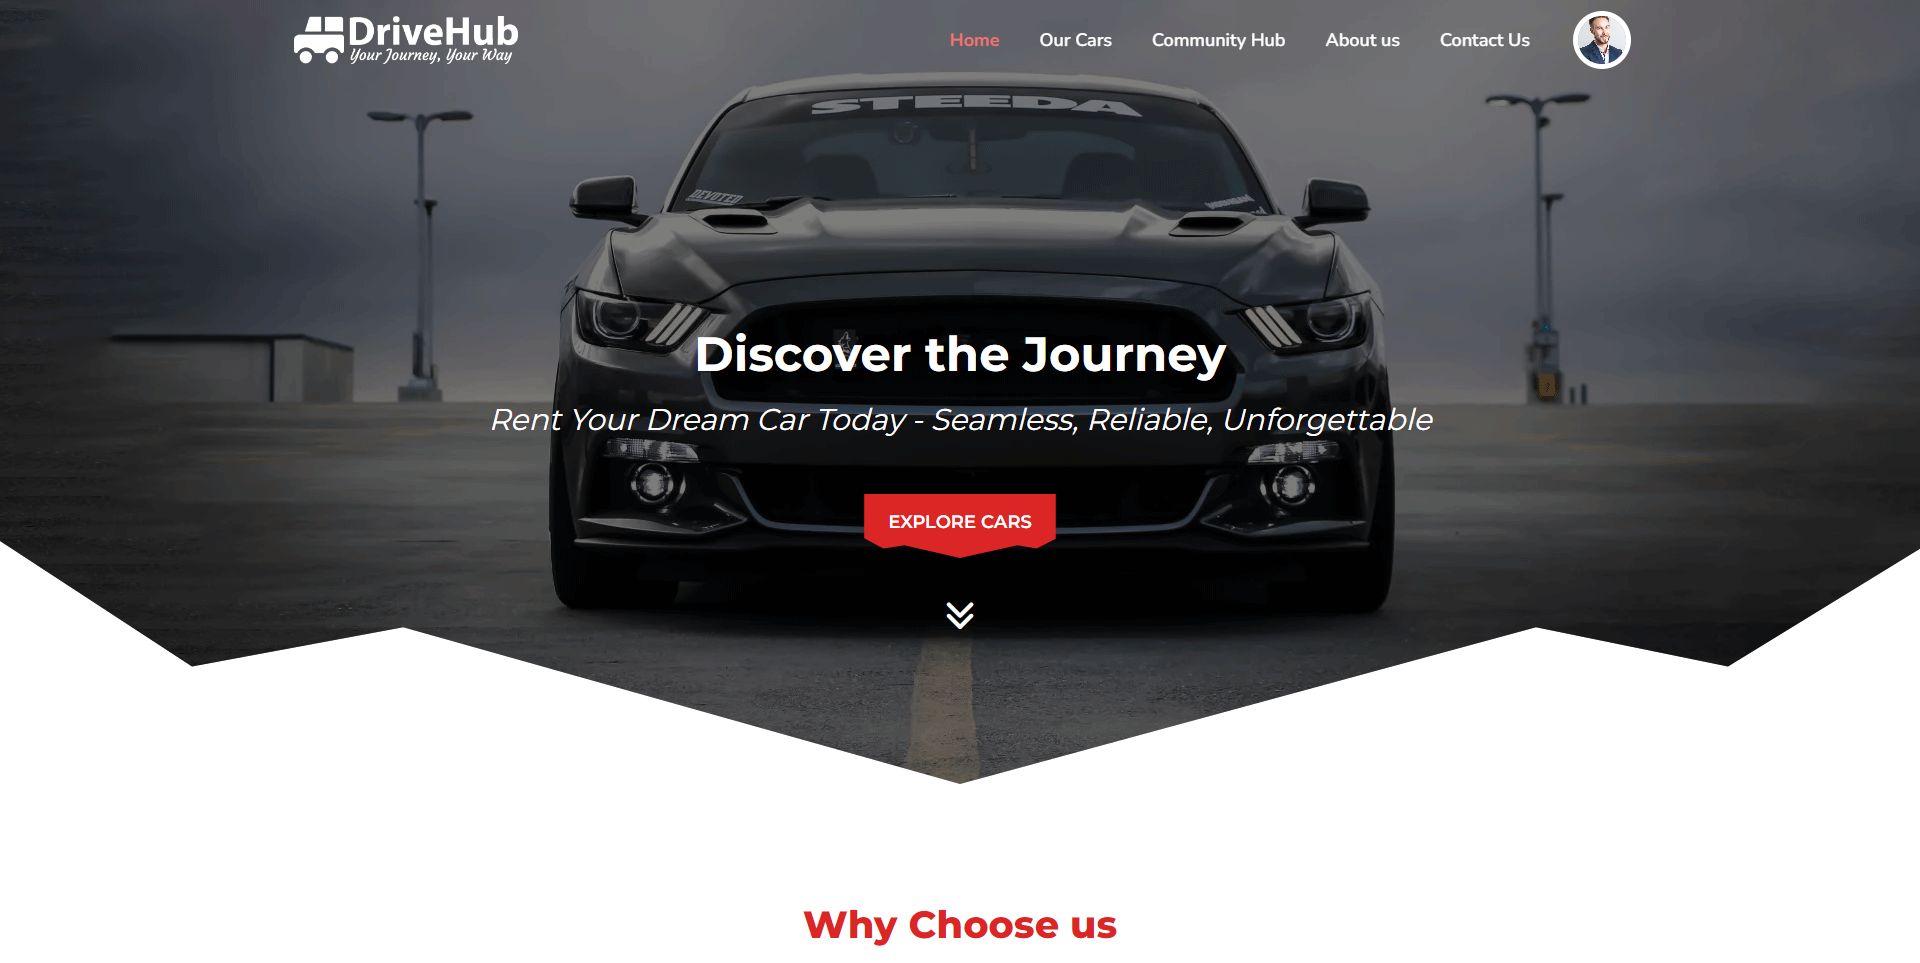
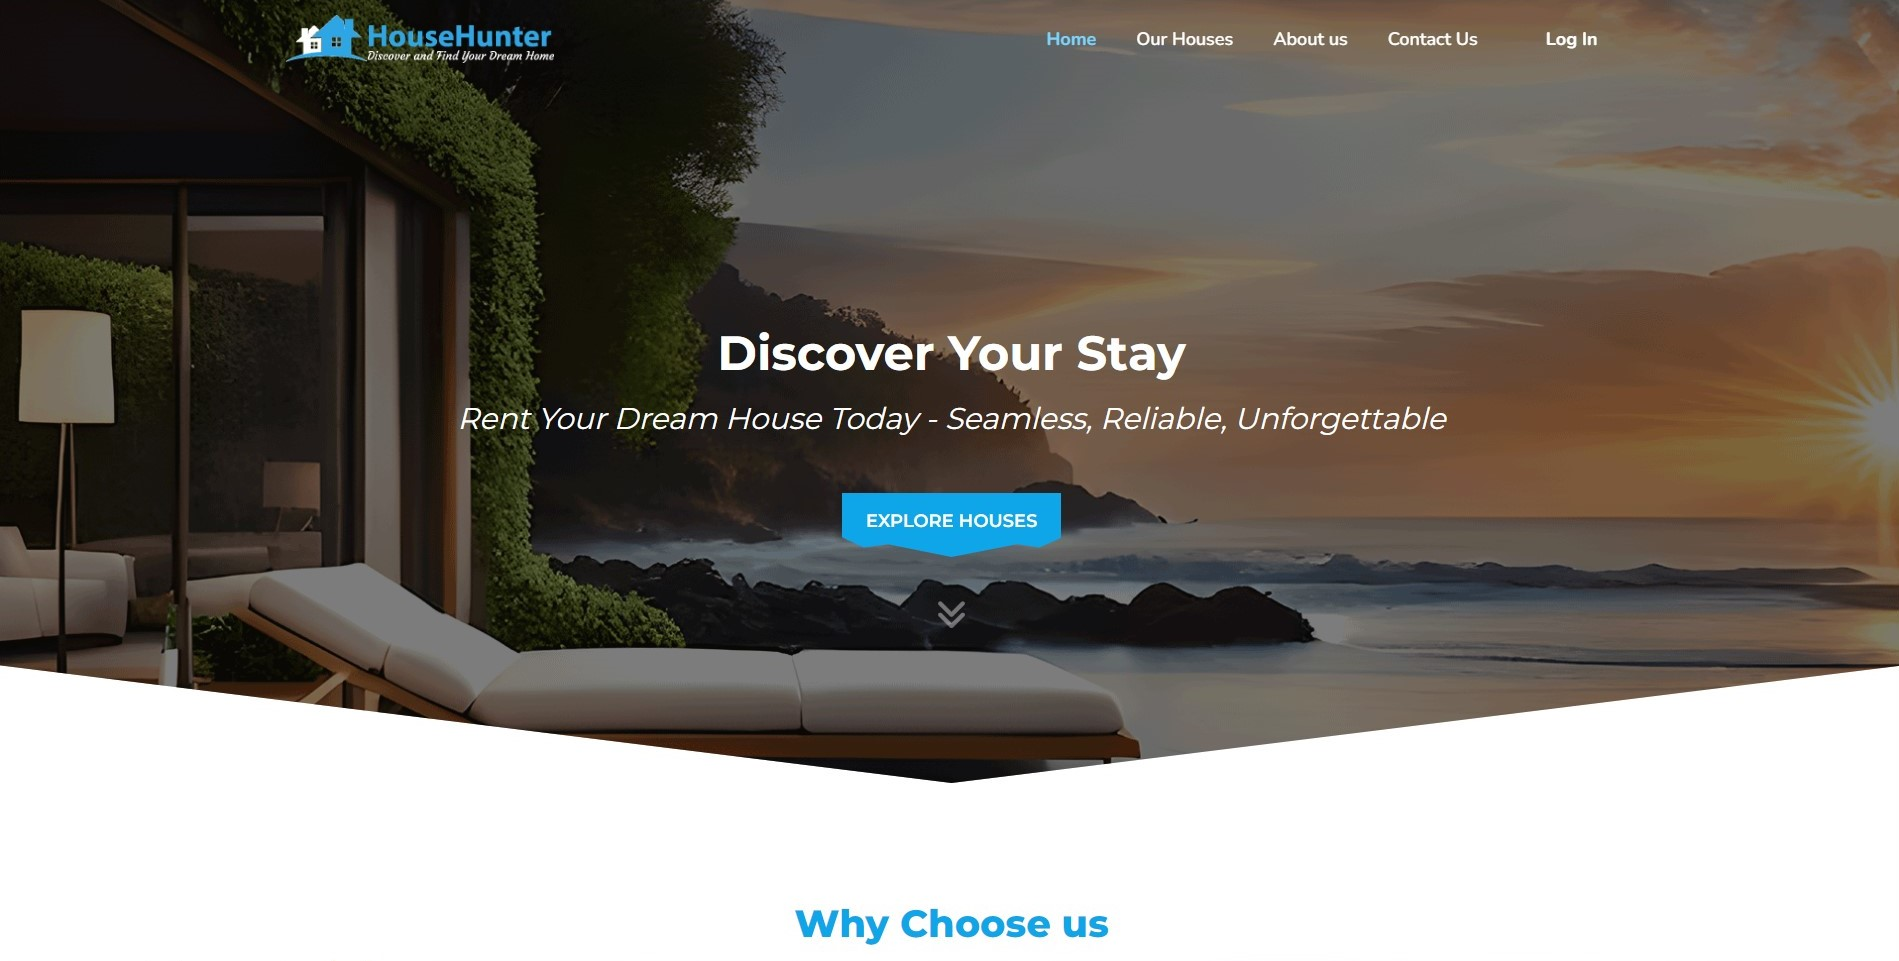
change full web preview

diff --git a/README.md b/README.md
@@ -1,4 +1,4 @@
-# HouseHunter - House Rental and Community Platform
+# HouseHunter - Online House Rental Platform
 
 ## Project Overview
 
@@ -6,24 +6,22 @@ HouseHunter is a comprehensive House rental website that facilitates users in re
 
 ## Live Website Preview
 
-[![Project Screenshot](https://github.com/Nahid4306053/HouseHunter-Client-Side/blob/0195ca3f948cd4eccc70aad9c3fcf388ae8d3204/public/images/full_web_priview.jpg)](https://HouseHunterv1.netlify.app)
+[![Project Screenshot](https://github.com/Nahid4306053/HouseHunter-client/blob/7c7663a7dd25707dffeff0b798d95f7a70b86ba5/public/images/full_web_priview.jpg)](https://househunterv2.netlify.app/)
 
-[Click to View Live Website](https://HouseHunterv1.netlify.app)
+[Click to View Live Website](https://househunterv2.netlify.app/)
 
 ### Features
 
 1. **House Rental System**
+   - Browse and filter houses by various criteria, including per-month rent, availability status, number of bedrooms, number of bathrooms, and more.
+   - Online payment system for rental transactions with flexible payment plans, accommodating both per-month and per-day options.
+   - User authentication required for renting houses, ensuring a secure and personalized experience.
 
-   - Users can browse and filter cars by brand, model, status, and price.
-   - Online payment system for rental transactions on a per-day basis.
-   - User authentication is required for renting cars.
-
-2. **Community Hub**
-
-   - Users can share their House journey experiences as posts.
-   - Users can view and comment on posts, see who commented, and track post views.
-   - Post authors are visible to other users.
-   - A popular post section highlights trending community content.
+2 **Filter Options:**
+   - **Rent Type:** Filter houses by per-month rent, per-day rent, or other customizable options.
+   - **Availability Status:** Browse houses based on availability status (e.g., available, booked, upcoming).
+   - **Bedroom and Bathroom Count:** Narrow down options by specifying the desired number of bedrooms and bathrooms.
+   - **Time Availability:** Set specific rental periods or durations to find houses available during your preferred time.
 
 3. **Review System**
 
